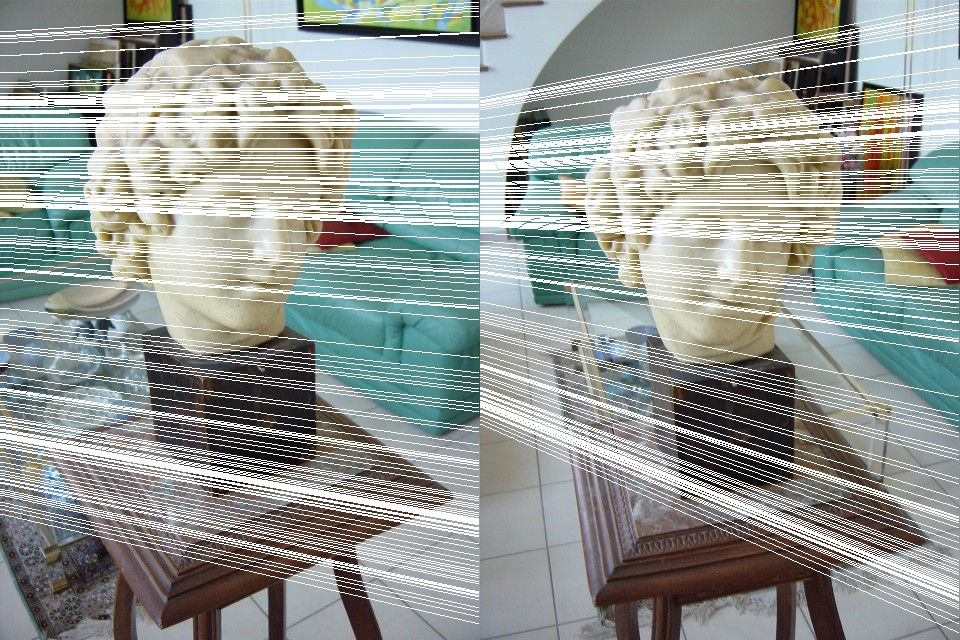
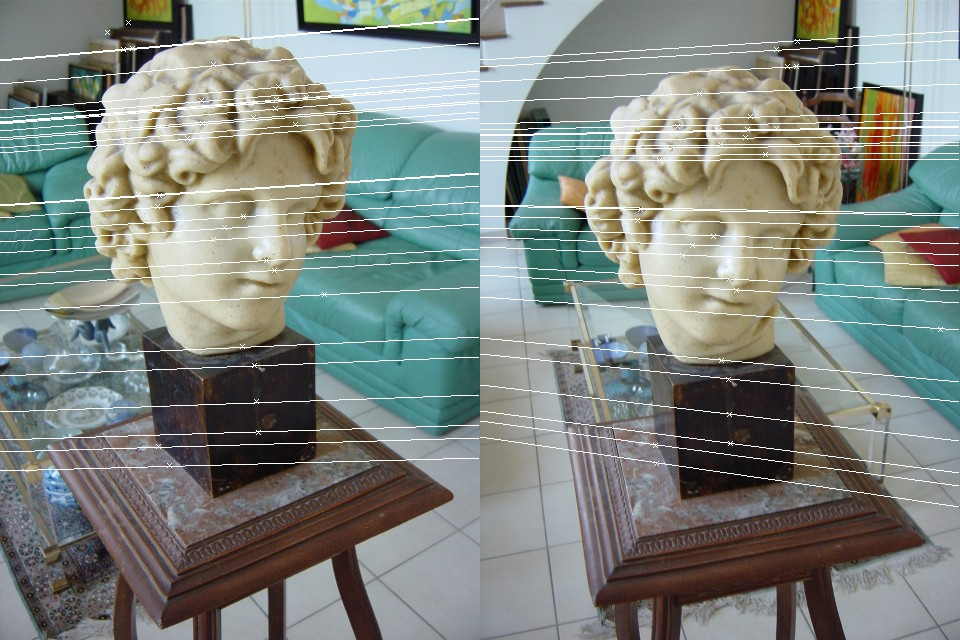
upate tutorial: sfm

Changed region(s): [[0.0, 0.0, 1.0, 0.9688]]

diff --git a/_site/tutorials/sfm/index.html b/_site/tutorials/sfm/index.html
@@ -157,12 +157,12 @@
 <h3 id="4-feature-matching">4. Feature matching</h3>
 <p>See the matching results below</p>
 <div class="img_row">
-    <img class="col one" src="/assets/img/open3DCV/sfm/matching1_2.jpg" alt="" title="example image" />
-    <img class="col one" src="/assets/img/open3DCV/sfm/matching2_3.jpg" alt="" title="example image" />
-    <img class="col one" src="/assets/img/open3DCV/sfm/matching3_4.jpg" alt="" title="example image" />
+    <img class="col one" src="/assets/img/open3DCV/sfm/matching_inlier1_2.jpg" alt="" title="example image" />
+    <img class="col one" src="/assets/img/open3DCV/sfm/matching_inlier2_3.jpg" alt="" title="example image" />
+    <img class="col one" src="/assets/img/open3DCV/sfm/matching_inlier3_4.jpg" alt="" title="example image" />
 </div>
 <div class="img_row">
-    <img class="col one" src="/assets/img/open3DCV/sfm/matching4_5.jpg" alt="" title="example image" />
+    <img class="col one" src="/assets/img/open3DCV/sfm/matching_inlier4_5.jpg" alt="" title="example image" />
 </div>
 <div class="col three caption">
     Results of feature matching.

diff --git a/_tutorials/sfm.md b/_tutorials/sfm.md
@@ -72,12 +72,12 @@ See the code above
 ### 4. Feature matching
 See the matching results below
 <div class="img_row">
-    <img class="col one" src="/assets/img/open3DCV/sfm/matching1_2.jpg" alt="" title="example image"/>
-    <img class="col one" src="/assets/img/open3DCV/sfm/matching2_3.jpg" alt="" title="example image"/>
-    <img class="col one" src="/assets/img/open3DCV/sfm/matching3_4.jpg" alt="" title="example image"/>
+    <img class="col one" src="/assets/img/open3DCV/sfm/matching_inlier1_2.jpg" alt="" title="example image"/>
+    <img class="col one" src="/assets/img/open3DCV/sfm/matching_inlier2_3.jpg" alt="" title="example image"/>
+    <img class="col one" src="/assets/img/open3DCV/sfm/matching_inlier3_4.jpg" alt="" title="example image"/>
 </div>
 <div class="img_row">
-    <img class="col one" src="/assets/img/open3DCV/sfm/matching4_5.jpg" alt="" title="example image"/>
+    <img class="col one" src="/assets/img/open3DCV/sfm/matching_inlier4_5.jpg" alt="" title="example image"/>
 </div>
 <div class="col three caption">
     Results of feature matching.
